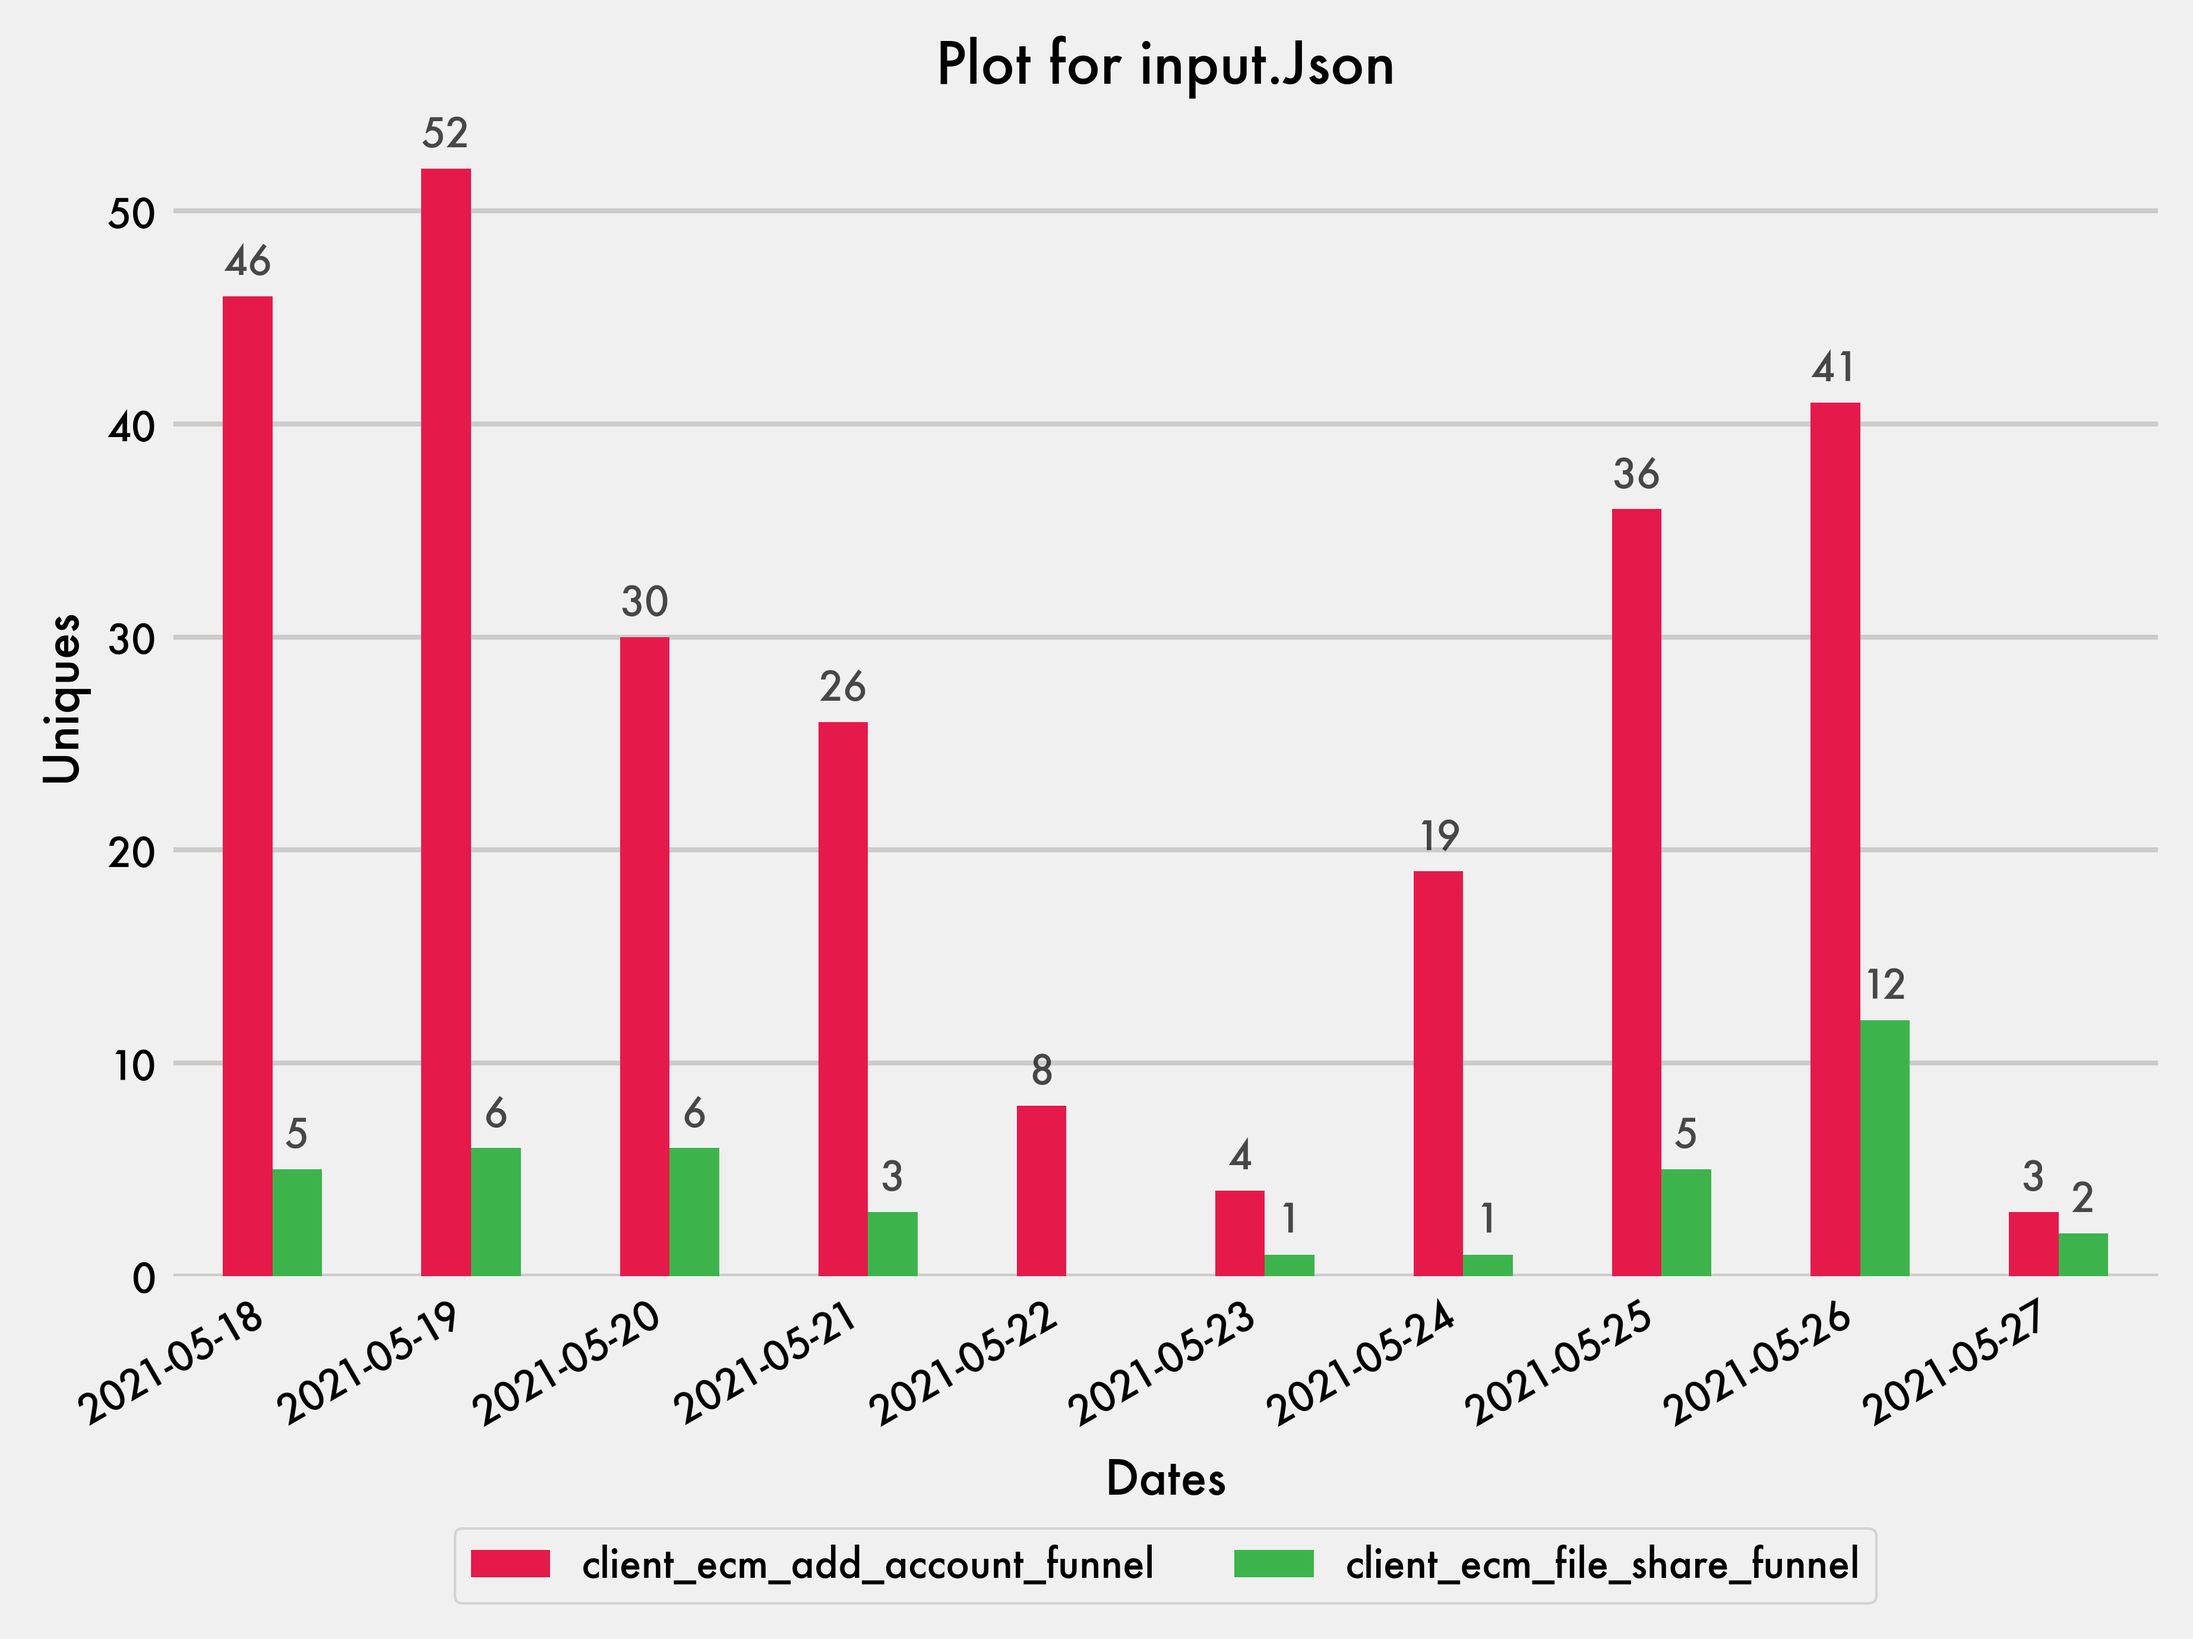
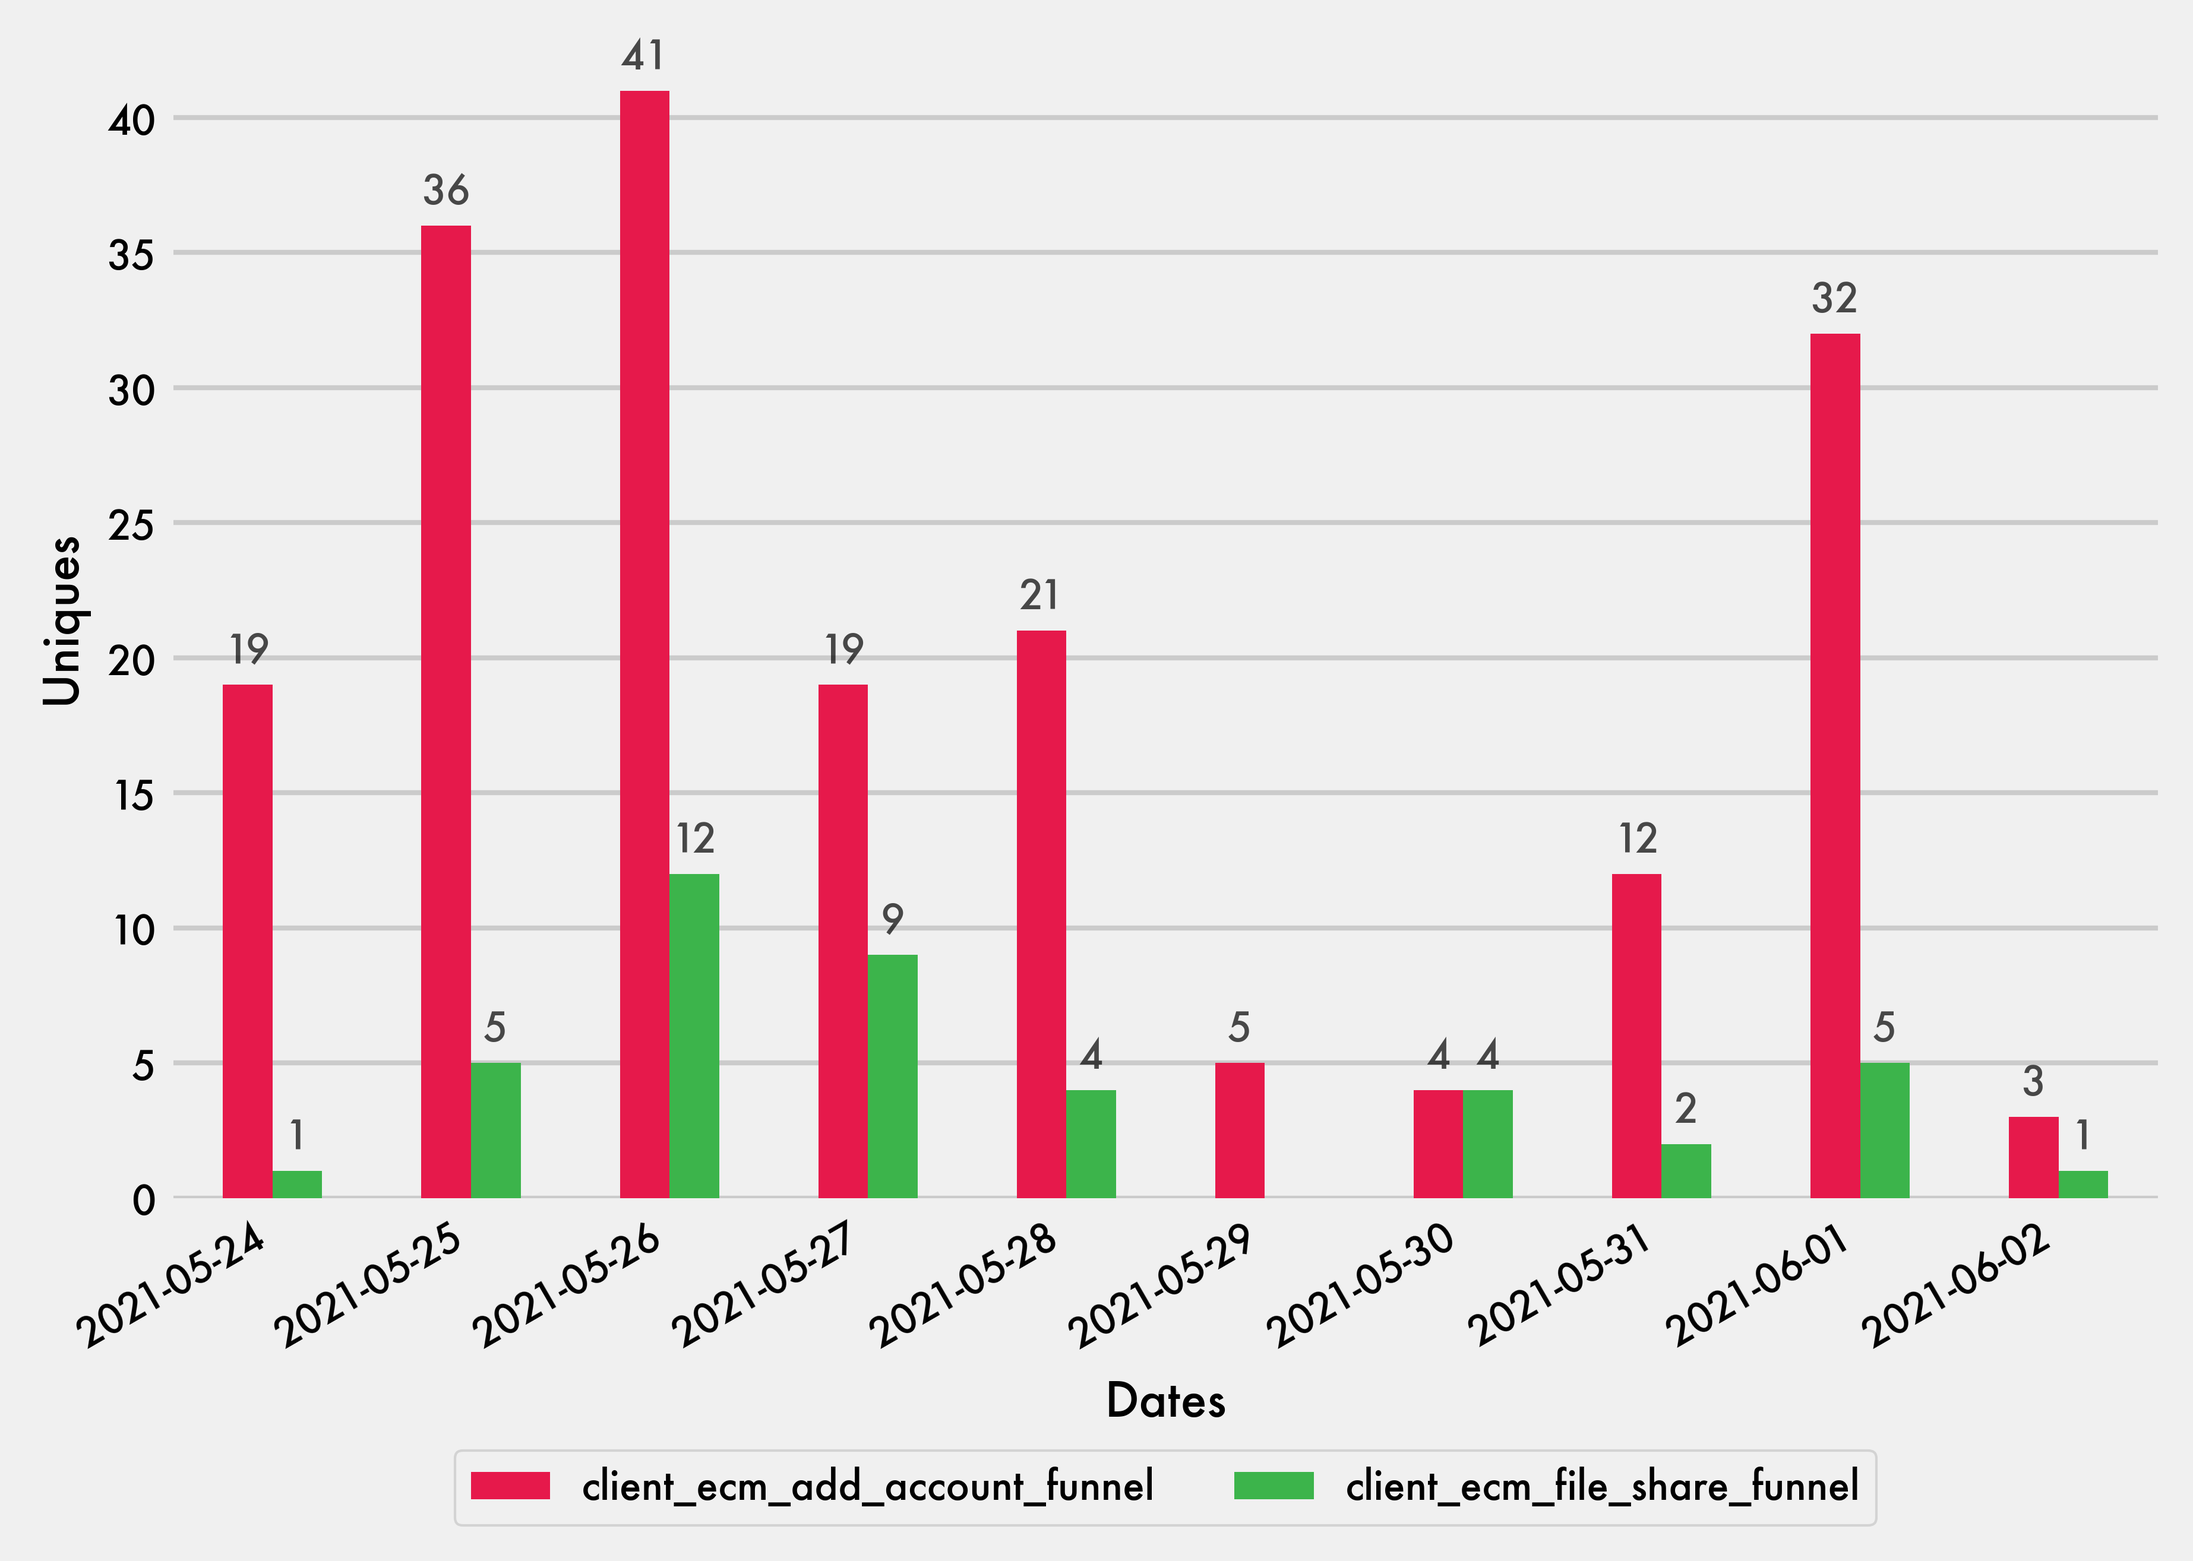
Async API calls working, queuing basic logic ready

diff --git a/AmplitudeInteraction.py b/AmplitudeInteraction.py
@@ -1,21 +1,47 @@
+import requests, json, matplotlib, cexprtk, asyncio
 import pandas as pd
-import requests
-import json
 from requests.auth import HTTPBasicAuth
 from datetime import datetime, timedelta
-import matplotlib
 matplotlib.use('Agg')
 import matplotlib.pyplot as plt
 import numpy as np
 import seaborn as sns
-import cexprtk
+from threading import Thread
+from concurrent.futures import ThreadPoolExecutor
+
 iValues = {"daily" : '1', "weekly" : '7', "monthly" : '30', "hourly" : '-3600000', "realtime" : '-300000'}
 measures = {'uniques' : 'uniques', 'event totals' : 'totals', 'active %' : 'pct_dau', 'average' : 'average'}
+dfList = []
 keyFile = open(r'./.secret/api_keys.txt','r')
 operators = ['<=', '>=', '=', '<', '>']
 keys = keyFile.read().split('\n')
+jsonPlotJobs = []
 
-def getDFList(inputJsonFileName):
+def apiCall(inputJsonFileName, HTTPString, errorString):
+    with open(inputJsonFileName) as f:
+        inputJson = json.load(f)
+    interval = iValues[inputJson['body']['interval']]
+    response = requests.get(HTTPString, auth = HTTPBasicAuth(keys[0], keys[1]))
+    if str(response) != '<Response [200]>':
+        return 'API call Failed'
+    response_json = response.json()
+    tempDF = pd.DataFrame(response_json['data']['series'], columns = response_json['data']['xValues']).transpose()
+    if not (tempDF.empty):
+        if (response_json['data']['seriesLabels'] != [0]):
+            tempDF.columns = [el[1] for el in response_json['data']['seriesLabels']]
+        if interval in ['1','7']:
+            tempDF = tempDF.rename(index = lambda x: x.split('T')[0])
+        else:
+            tempDF = tempDF.rename(index = lambda x: x.split('T')[1])
+        if not (str(tempDF.columns[0]).isdigit()):
+            tempDF = tempDF.rename(columns = lambda x: errorString['event_type'] + ', ' + x)
+        else:
+            tempDF = tempDF.rename(columns = lambda x: errorString['event_type'])
+        dfList.append(tempDF)
+        return tempDF
+
+async def getDFListAsynchronously(inputJsonFileName):
+    global dfList
     with open(inputJsonFileName) as f:
         inputJson = json.load(f)
     errors = inputJson['body']['events']
@@ -35,42 +61,39 @@ def getDFList(inputJsonFileName):
             startDate = str((datetime.now() + timedelta(-(int(inputJson['body']['interval_range'][:-1]) * 30) + 1)).date()).replace('-','')
         else:
             startDate = endDate
-
-    for i in range(len(errors)):
-        HTTPString = ('https://amplitude.com/api/2/events/segmentation?e=' + str(errors[i]) + '&start=' + startDate + '&end=' + endDate + '&i=' + interval + '&m=' + metric).replace("'", '"')
-        response = requests.get(HTTPString, auth = HTTPBasicAuth(keys[0], keys[1]))
-        if str(response) != '<Response [200]>':
-            return 'API call Failed'
-        response_json = response.json()
-        tempDF = pd.DataFrame(response_json['data']['series'], columns = response_json['data']['xValues']).transpose()
-        if not (tempDF.empty):
-            if (response_json['data']['seriesLabels'] != [0]):
-                tempDF.columns = [el[1] for el in response_json['data']['seriesLabels']]
-            if interval in ['1','7']:
-                tempDF = tempDF.rename(index = lambda x: x.split('T')[0])
-            else:
-                tempDF = tempDF.rename(index = lambda x: x.split('T')[1])
-            if not (str(tempDF.columns[0]).isdigit()):
-                tempDF = tempDF.rename(columns = lambda x: errors[i]['event_type'] + ', ' + x)
-            else:
-                tempDF = tempDF.rename(columns = lambda x: errors[i]['event_type'])
-            dfList.append(tempDF)
-    return dfList
+    with ThreadPoolExecutor(max_workers=10) as executor:
+        with requests.Session() as session:
+            loop = asyncio.get_event_loop()
+            tasks = []
+            for i in range(len(errors)):
+                HTTPString = ('https://amplitude.com/api/2/events/segmentation?e=' + str(errors[i]) + '&start=' + startDate + '&end=' + endDate + '&i=' + interval + '&m=' + metric).replace("'", '"')
+                tasks.append(loop.run_in_executor(
+                    executor,
+                    apiCall,
+                    *(inputJsonFileName, HTTPString, errors[i])
+                ))
+            for response in await asyncio.gather(*tasks):
+                pass
 
 def getErrorPlots(inputJsonFileName):
     with open(inputJsonFileName) as f:
         inputJson = json.load(f)
     plotName = inputJsonFileName[:-5] + 'plot.png'
     chartType = inputJson['body']['chart_type']
-    dfList = []
-    dfList = getDFList(inputJsonFileName)
+    loop = asyncio.new_event_loop()
+    # loop = asyncio.get_event_loop()
+    future = asyncio.ensure_future(getDFListAsynchronously("input.json"))
+    loop.run_until_complete(future)
+    tempDF = pd.DataFrame()
     df = pd.DataFrame()
+    errorNames = [event['event_type'] for event in inputJson['body']['events']]
     for i in dfList:
-        if df.empty:
-            df = i
+        if tempDF.empty:
+            tempDF = i
         else:
-            df = df.join(i)
-
+            tempDF = tempDF.join(i)
+    for error in errorNames:
+        df[error] = tempDF[error]
     fig, ax = plt.subplots()
     xlabel = '' if (':' in df.index[0]) else 'Dates'
     plt.style.use('fivethirtyeight')
@@ -91,7 +114,8 @@ def getErrorPlots(inputJsonFileName):
         ax = df.plot.bar(stacked=True, color=palette)
         rects = ax.patches
         if len(df.index) <= 20:
-            autolabelbar(rects, ax, True)
+            ax.bar_label(p1, label_type='center')
+            # autolabelbar(rects, ax, True)
     elif chartType == 'stacked area':
         ax = df.plot.area(alpha=0.5, color=palette)
     if plt.xticks()[0][-1] > 19 and chartType not in ['stacked area', 'line']:
@@ -109,8 +133,8 @@ def getErrorPlots(inputJsonFileName):
     plt.xlabel(xlabel, **csfont)
     plt.ylabel(inputJson['body']['measures'].title(), **csfont)
     plt.legend(loc='upper center', bbox_to_anchor=(0.5, -0.2),
-           fancybox=True, ncol=5)
-    plt.title('Plot for ' + inputJsonFileName)
+           fancybox=True, ncol=3)
+    plt.title('')
     plt.savefig(plotName, dpi=600, bbox_inches='tight')
     plt.close(fig)
     return plotName
@@ -123,7 +147,7 @@ def autolabelbar(rects, ax, stacked=False):
     diff = (ylabels[1] - ylabels[0]) * 0.4
     for rect in rects:
         height = rect.get_height()
-        label_position = ((rect.get_y() + height / 2) - 1) if stacked else height + (y_height * 0.01)
+        label_position = ((rect.get_y() + height / 2) - (y_height * 0.01)) if stacked else height + (y_height * 0.01)
         if height:
             t = ax.text(rect.get_x() + rect.get_width()/2., label_position,
                 str(int(height)),
@@ -135,24 +159,27 @@ def CheckAlertStatus(inputJsonFileName):
         inputJson = json.load(f)
     if inputJson['body']['alerts'] == 'f':
         return
-    dfList = getDFList(inputJsonFileName)
+    loop = asyncio.get_event_loop()
+    future = asyncio.ensure_future(getDFListAsynchronously("input.json"))
+    loop.run_until_complete(future)
     valuesDict = {}
     thresholds = inputJson['body']['thresholds']
+    errorNames = [event['event_type'] for event in inputJson['body']['events']]
     df = pd.DataFrame()
-    for i in dfList:
+    for dataframe in dfList:
         if df.empty:
-            df = i
+            df = dataframe
         else:
-            df = df.join(i)
-    temp = 65
-    for i in df.columns:
-        valuesDict[chr(temp)] = df[i][-1]
-        temp = temp + 1
+            df = df.join(dataframe)
+    ascii = 65
+    for error in errorNames:
+        valuesDict[chr(ascii)] = df[error][-1]
+        ascii = ascii + 1
     for threshold in thresholds:
         for n in range(len(operators)):
             if operators[n] in threshold:
-                expr = [ i.strip() for i in threshold.split(operators[n])]
-                eval = cexprtk.evaluate_expression(expr[0], valuesDict)
+                expr = [ threshold.strip() for threshold in threshold.split(operators[n])]
+                eval = cexprtk.evaluate_expression(expr[0].upper(), valuesDict)
                 if eval <= int(expr[1]) and n == 0:
                     return (True, threshold)
                 elif eval >= int(expr[1]) and n == 1:
@@ -164,4 +191,19 @@ def CheckAlertStatus(inputJsonFileName):
                 elif eval > int(expr[1]) and n == 4:
                     return (True, threshold)
                 break
-getErrorPlots('input.Json')
+def appendPlotJson(inputJsonFileName):
+    global jsonPlotJobs
+    jsonPlotJobs.append(inputJsonFileName)
+
+def backgroundTaskScheduler():
+    global jsonPlotJobs
+    while True:
+        if len(jsonPlotJobs) != 0:
+            getErrorPlots(jsonPlotJobs[0])
+            jsonPlotJobs = jsonPlotJobs[1:]
+            print('JSON Processed')
+
+b = Thread(name='backgroundTaskScheduler', target=backgroundTaskScheduler)
+b.start()
+print(CheckAlertStatus('input.json'))
+appendPlotJson('input.json')
